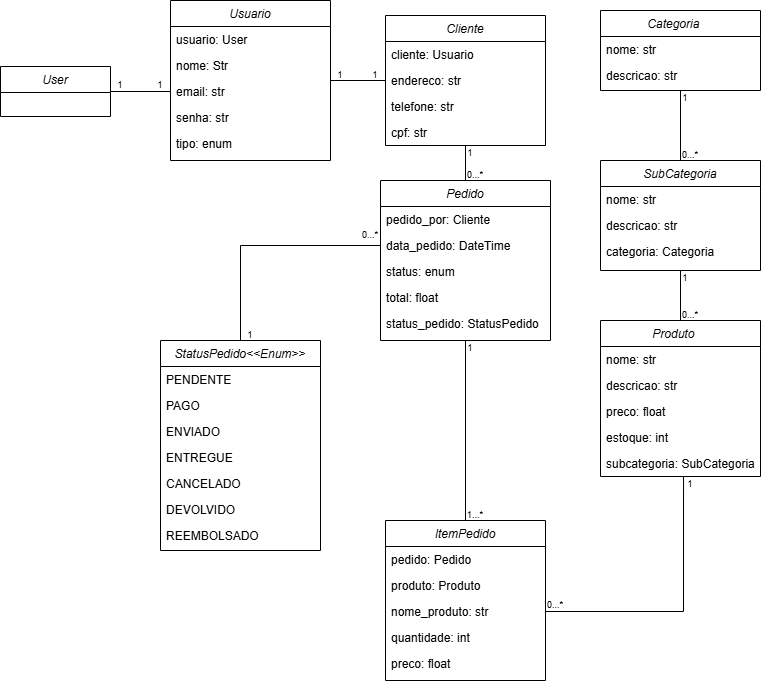
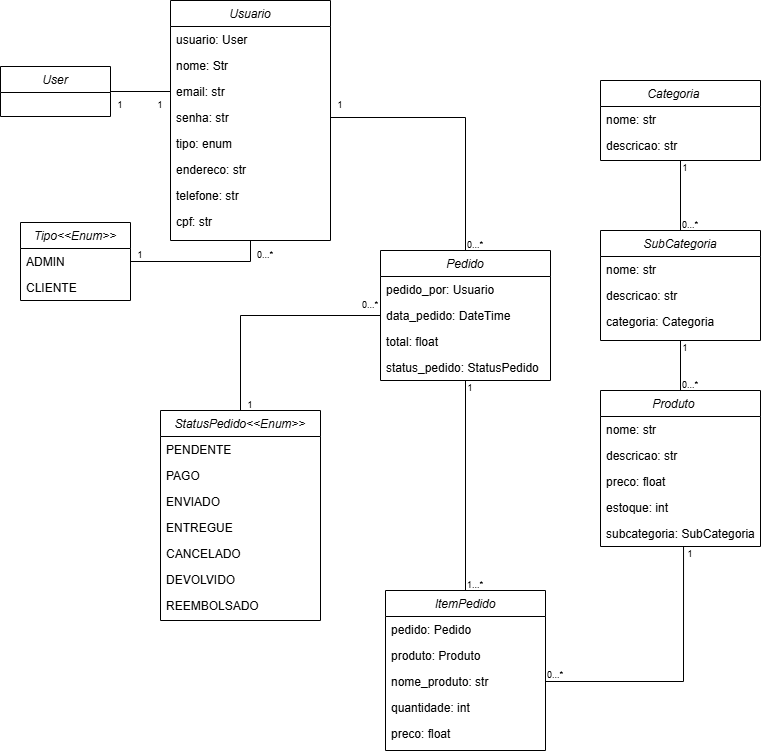
Criando o model e o create das outras classes

diff --git a/cadastros/models.py b/cadastros/models.py
@@ -14,3 +14,81 @@ class Categoria(models.Model):
     class Meta:
         ordering = ["nome"]
     
+class SubCategoria(models.Model):
+    nome = models.CharField(max_length=120)
+    descricao = models.CharField(max_length=255)
+    categoria = models.ForeignKey(Categoria, on_delete=models.PROTECT)
+    
+    
+    def __str__(self):
+        return f'{self.nome} ({self.categoria.nome})'
+    
+    class Meta:
+        ordering = ["nome"]
+
+class Produto(models.Model):
+    nome = models.CharField(max_length=120)
+    descricao = models.CharField(max_length=255)
+    preco = models.DecimalField(max_digits=10, decimal_places=2)  # Ex: 12345678.90
+    estoque = models.PositiveIntegerField()
+    sub_categoria = models.ForeignKey(SubCategoria, on_delete=models.PROTECT)
+    
+    
+    def __str__(self):
+        return f'{self.nome} ({self.sub_categoria.nome})'
+    
+    class Meta:
+        ordering = ["nome"]
+        
+
+class TipoUsuario(models.TextChoices):
+    ADMIN = 'ADMIN', 'Administrador'
+    CLIENTE = 'CLIENTE', 'Cliente'
+ 
+
+class Usuario(models.Model):
+    usuario = models.OneToOneField(User, on_delete=models.CASCADE)
+    nome = models.CharField(max_length=255)       
+    email = models.EmailField()     
+    endereco = models.CharField(max_length=255)   
+    telefone = models.CharField(max_length=20)
+    cpf = models.CharField(max_length=14, unique=True) 
+    tipo = models.CharField(
+        max_length=10,
+        choices=TipoUsuario.choices,
+        default=TipoUsuario.CLIENTE
+    )
+
+    def __str__(self):
+        return f'{self.nome} ({self.get_tipo_display()})'
+    
+
+class StatusPedido(models.TextChoices):
+    PENDENTE = 'PENDENTE', 'Pendente'
+    PAGO =  'PAGO', 'Pago'
+    ENVIADO = 'ENVIADO', 'Enviado'
+    ENTREGUE = 'ENTREGUE', 'Entregue'
+    CANCELADO = 'CANCELADO', 'Cancelado'
+    DEVOLVIDO = 'DEVOLVIDO', 'Devolvido'
+    REEMBOLSADO = 'REEMBOLSADO', 'Reembolsado'
+ 
+
+class Pedido(models.Model):
+    pedido_por = models.ForeignKey(Usuario, on_delete=models.PROTECT)
+    data_pedido = models.DateTimeField(auto_now_add=True)
+    total= models.DecimalField(max_digits=10, decimal_places=2)  
+    status = models.CharField(
+        max_length=10,
+        choices=StatusPedido.choices,
+        default=StatusPedido.PENDENTE
+    )
+
+    
+    
+class ItemPedido(models.Model):
+    pedido = models.ForeignKey(Pedido, on_delete=models.PROTECT)
+    produto = models.ForeignKey(Produto, on_delete=models.PROTECT)
+    nome_produto = models.CharField(max_length=255)
+    quantidade = models.PositiveIntegerField()
+    preco = models.DecimalField(max_digits=10, decimal_places=2)     
+    

diff --git a/cadastros/views.py b/cadastros/views.py
@@ -3,7 +3,7 @@ from django.views.generic.list import ListView
 
 from django.urls import reverse_lazy
 
-from .models import Categoria
+from .models import Categoria, SubCategoria, Produto, Usuario, Pedido, ItemPedido
 
 class CategoriaCreate(CreateView):
     template_name = "cadastros/form.html"
@@ -12,6 +12,58 @@ class CategoriaCreate(CreateView):
     fields = ["nome", "descricao"]
     extra_context = {
         "titulo" : "Cadastro de Categoria"
+    }
+    
+class SubCategoriaCreate(CreateView):
+    template_name = "cadastros/form.html"
+    model = SubCategoria
+    success_url = reverse_lazy("index")
+    fields = ["nome", "descricao", "categoria"]
+    extra_context = {
+        "titulo" : "Cadastro de SubCategoria"
+    }  
+    
+
+class ProdutoCreate(CreateView):
+    template_name = "cadastros/form.html"
+    model = Produto
+    success_url = reverse_lazy("index")
+    fields = ["nome", "descricao", "preco", "estoque", "sub_categoria"]
+    extra_context = {
+        "titulo": "Cadastro de Produto"
+    }
+
+
+class UsuarioCreate(CreateView):
+    template_name = "cadastros/form.html"
+    model = Usuario
+    success_url = reverse_lazy("index")
+    fields = ["nome", "email", "endereco", "telefone", "cpf", "tipo"]
+    extra_context = {
+        "titulo": "Cadastro de Usuário"
+    }
+
+    
+
+class PedidoCreate(CreateView):
+    template_name = "cadastros/form.html"
+    model = Pedido
+    success_url = reverse_lazy("index")
+    fields = ["pedido_por", "total"]
+    extra_context = {
+        "titulo": "Cadastro de Pedido"
+    }
+    
+    
+
+
+class ItemPedidoCreate(CreateView):
+    template_name = "cadastros/form.html"
+    model = ItemPedido
+    success_url = reverse_lazy("index")
+    fields = ["pedido", "produto", "nome_produto", "preco"]
+    extra_context = {
+        "titulo": "Cadastro de Item de Pedido"
     }
     
 class CategoriaUpdate(UpdateView):

diff --git a/cadastros/urls.py b/cadastros/urls.py
@@ -1,11 +1,17 @@
 from django.urls import path
 # Importar suas views
 
-from .views import CategoriaCreate
+from .views import CategoriaCreate, SubCategoriaCreate, UsuarioCreate, ProdutoCreate, PedidoCreate, ItemPedidoCreate
 from .views import CategoriaUpdate
 
 urlpatterns = [
     path("cadastrar/categoria/", CategoriaCreate.as_view(), name="cadastrar-categoria"),
+    path("cadastrar/sub-categoria/", SubCategoriaCreate.as_view(), name="cadastrar-sub-categoria"),
+    path("cadastrar/produto/", ProdutoCreate.as_view(), name="cadastrar-produto"),
+    path("cadastrar/pedido/", PedidoCreate.as_view(), name="cadastrar-pedido"),
+     path("cadastrar/usuario/", UsuarioCreate.as_view(), name="cadastrar-usuario"),
+    path("cadastrar/item-pedido/", ItemPedidoCreate.as_view(), name="cadastrar-item-pedido"),
+    
     path("editar/categoria/<int:pk>/", CategoriaUpdate.as_view(), name="editar-categoria"),
     # path("listar/categoria/", CategoriaList.as_view(), name="listar-categoria"),
 ]

diff --git a/cadastros/admin.py b/cadastros/admin.py
@@ -1,5 +1,10 @@
 from django.contrib import admin
-from .models import Categoria
+from .models import Categoria, SubCategoria, Produto, Usuario, Pedido, ItemPedido
 
 # Register your models here.
 admin.site.register(Categoria)
+admin.site.register(SubCategoria)
+admin.site.register(Produto)
+admin.site.register(Usuario)
+admin.site.register(Pedido)
+admin.site.register(ItemPedido)
